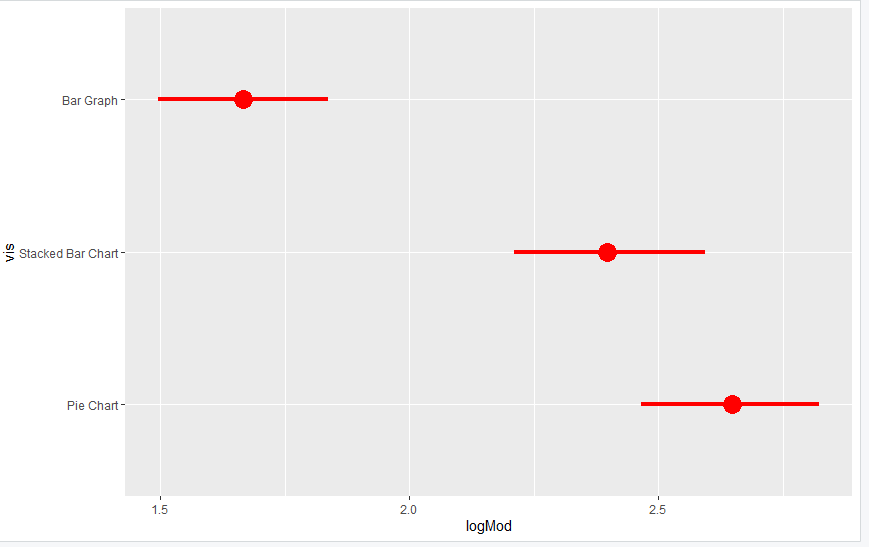
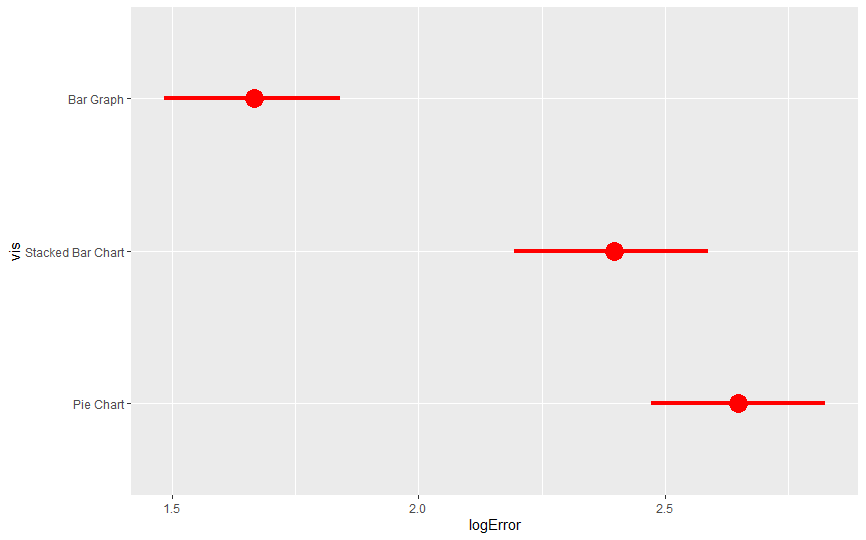
modifying Readme and results png

diff --git a/README.md b/README.md
@@ -55,7 +55,13 @@ vis and logError columns were used to create a visualization in R.
 
 Looking at the logError and analyzing the results, we can see that our hypothesis above holds true. The true percent is the actual percentage of the smaller to the larger graphical element in each chart, while the reported percent is what participants reported in the trials. Utilizing the Cleveland and McGill method, `abs(ReportedPercent – TruePercent) +1/8`, as their score for error and having this be on a logarithmic scale with base 2 to propagate error, we can see in the graphical analysis above that participants most likely were able to perceive data more accurately when presented using a bar chart. The pie chart clearly resulted in a more inaccurate reading of data, whereas the stacked bar chart came in as the second most effective graphical display. It is important to note that the error calculated for the stacked bar chart, however, was evidently closer to the error in accuracy when reading a pie chart.
 
-# Design/Technical Achievements
+# Technical Achievements
+  - We utilized d3, html/javascript, R, and Excel to complete this assignment
+  - We eliminated data outliers in our final dataset
+  - We converted -3 log error values to 0
+# Design Achievements
+  - Our experiment resembles the example given
+  - The final results graph produced in R has the chart types ordered by the value of errors
 
 Some stuff here....
 
